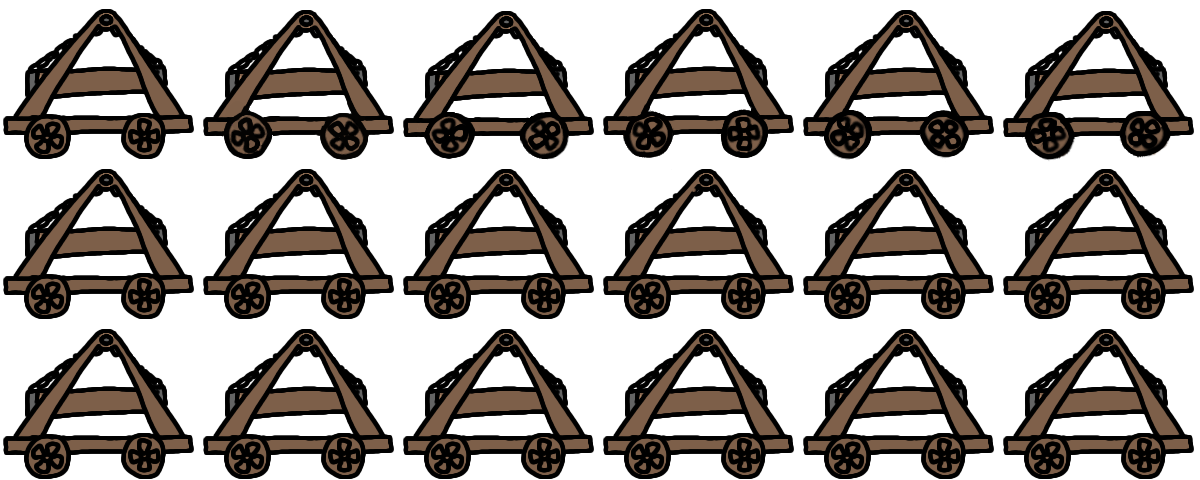
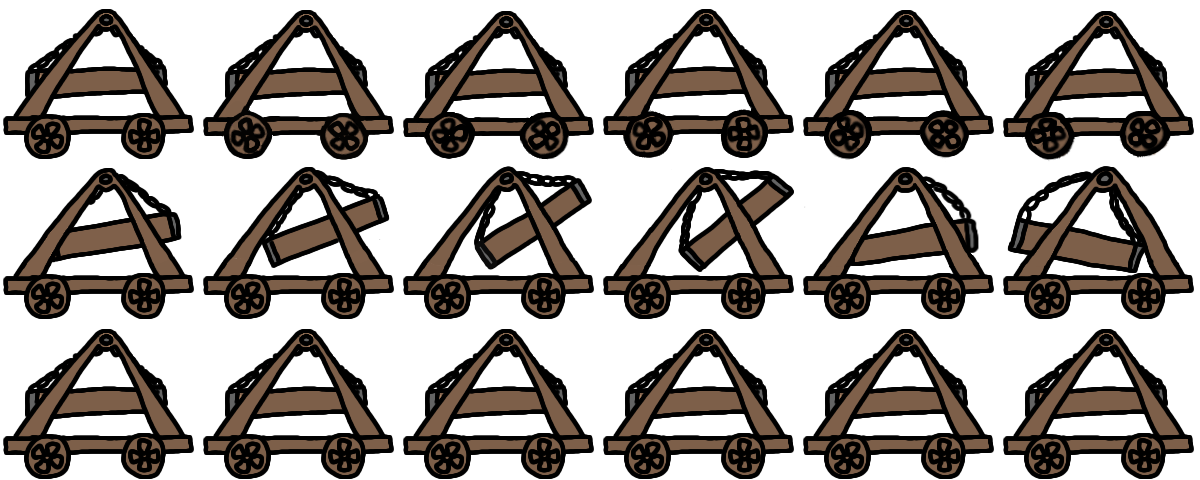
Add the thing's attack animation

diff --git a/common/game_logic/src/unit.cpp b/common/game_logic/src/unit.cpp
@@ -33,7 +33,7 @@ const unit_stats &unit::get_stats(unit_type type) noexcept {
         {unit_type::CHARIOT, unit_stats(4, 100, 1.5, 1.25, 0, 40, 100, {200, 160}, 150)},
         {unit_type::SWORDSMAN, unit_stats(4, 100, 0.75, 0.75 * 5. / 6, 0, 40, 100, {100, 200}, 100)},
         {unit_type::ARBALESTER, unit_stats(3, 100, 1, 1, 300, 40, 50, {100, 200}, 100)},
-        {unit_type::KNIGHT, unit_stats(4, 100, 1.5, 1.25, 0, 40, 100, {200, 160}, 150)},
+        {unit_type::KNIGHT, unit_stats(4, 500, 1.5, 1.5 * 11 / 12, 0, 40, 100, {200, 160}, 150)},
         {unit_type::STONE_TOWER, unit_stats(0, 5000, 0, 0, 0, 0, 0, {0, 0}, 0)},
         {unit_type::CASTLE_TOWER, unit_stats(0, 5000, 0, 0, 0, 0, 0, {0, 0}, 0)}};
     return stats.at(type);
@@ -60,7 +60,7 @@ void unit::update(unit &enemy, const std::optional<unit> &next_allied_unit, floa
     if (stats().attack_radius_pxls >= dist(enemy)) {
         m_attacking = true;
         m_attack_progress_s += dt;
-        if (m_attack_progress_s - dt <= stats().attack_time_s &&
+        if (m_attack_progress_s - dt < stats().attack_time_s &&
             stats().attack_time_s <= m_attack_progress_s) {
             attack(enemy);
         }
